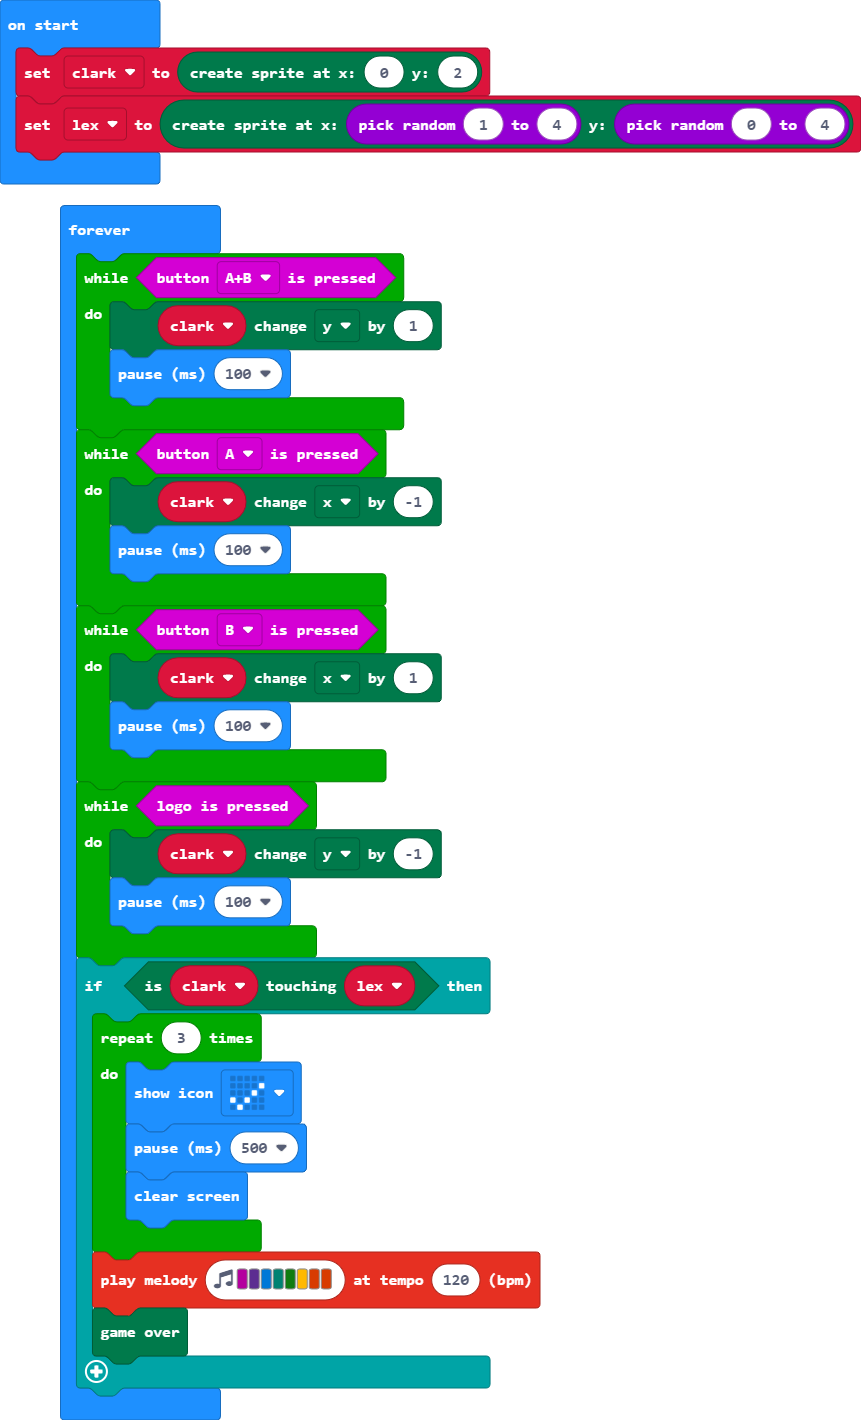
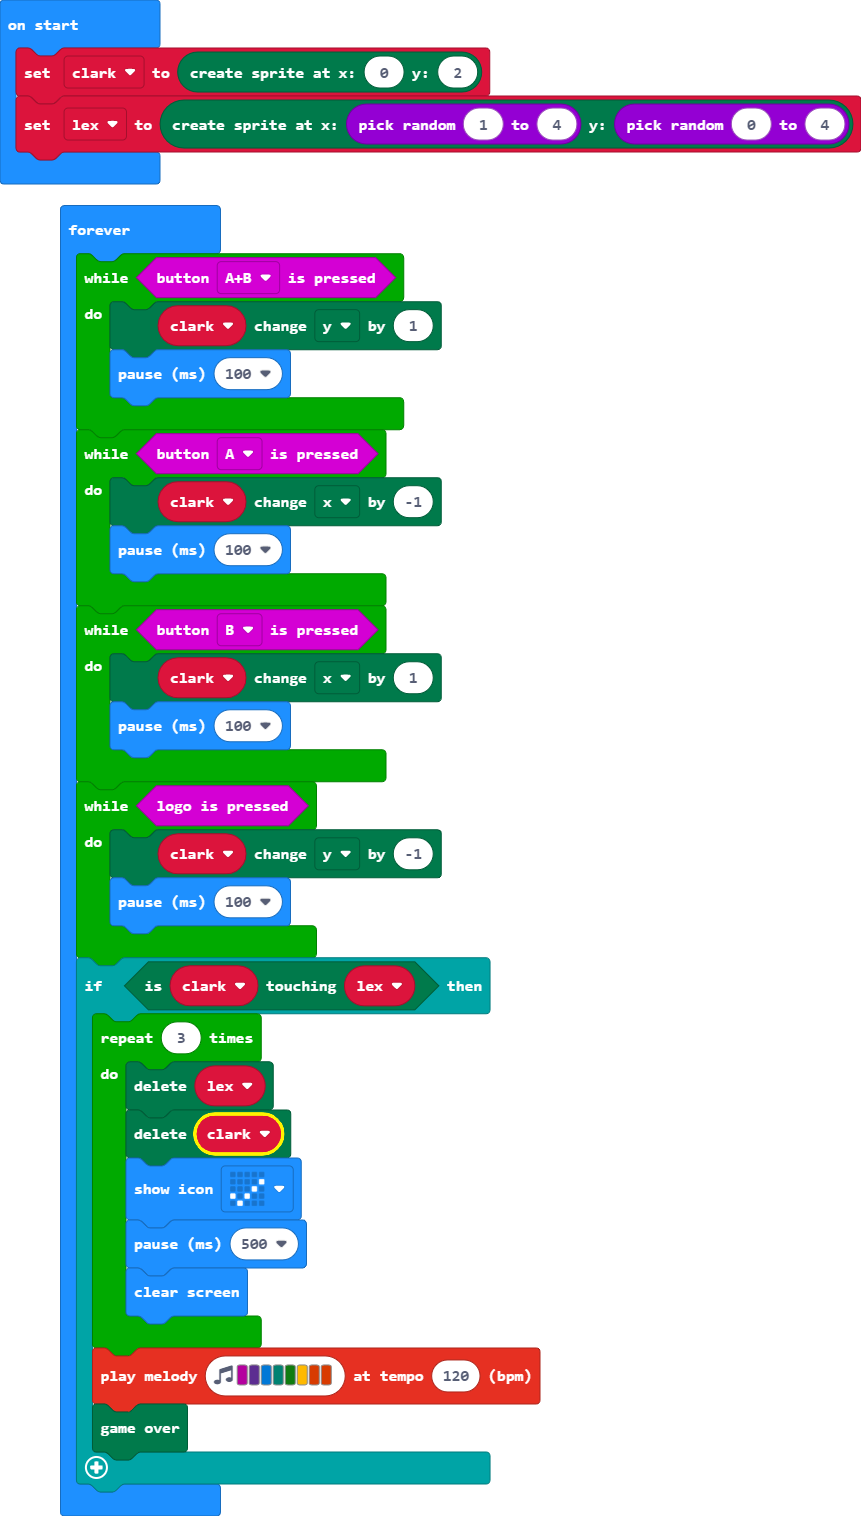
Update main.blocks, main.ts

Changed region(s): [[0.0, 0.0, 1.0, 0.9915]]

diff --git a/main.ts b/main.ts
@@ -19,6 +19,8 @@ basic.forever(function () {
     }
     if (clark.isTouching(lex)) {
         for (let index = 0; index < 3; index++) {
+            lex.delete()
+            clark.delete()
             basic.showIcon(IconNames.Yes)
             basic.pause(500)
             basic.clearScreen()
